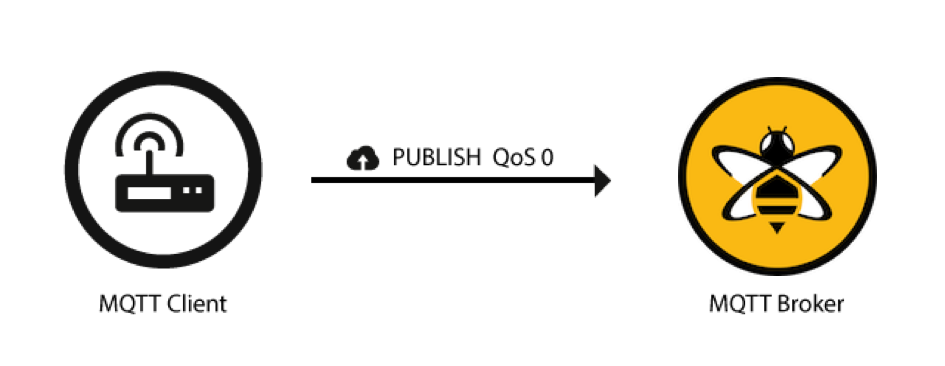
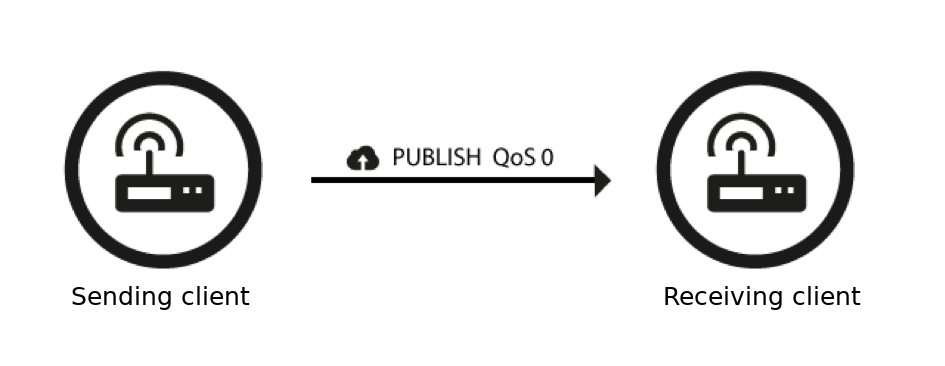
Improve qos pictures and reshuffle presentation slides

Changed region(s): [[0.6751, 0.1803, 0.9513, 0.7514], [0.7058, 0.7814, 0.9206, 0.8716], [0.0614, 0.7814, 0.2762, 0.8716]]

diff --git a/src/PRESENTATION.md b/src/PRESENTATION.md
@@ -27,9 +27,8 @@ date: Sep 21, 2018
 ## Request-Response: Disadvantages
 
 * Tight coupling between client and service
-* Extending existing endpoints with more functionality is hard
+* Extending the application is challenging
 * Distributing data to several hundred endpoints is challenging
-* Scalability is challenging
 
 ## Publish-Subscribe
 
@@ -69,11 +68,11 @@ A MQTT message consists of:
 ## MQTT: topics
 
 * Topics can be any string
-* Should be structured into a namespace with slashes
+* Can be structured into a namespace with slashes
 * Subscriptions allow pattern matching with:
     * `+` matching up to the next `/`
     * `#` matching any string that follows
-* `foo/+/baz` matches `foo/bar/baz` and `foo/boo/baz`
+* `foo/+/baz` to match `foo/bar/baz` and `foo/boo/baz`
 * `foo/#` matches also `foo/bar/baz/doh`
 * `#` matches any topic
 * But `foo/#/baz` is not allowed
@@ -100,10 +99,40 @@ Payload can be any array of bytes up to ~256Mb:
 * Video frame
 * ...
 
+## Hands on: hivemq demo client
+
+[http://www.hivemq.com/demos/websocket-client/](http://www.hivemq.com/demos/websocket-client/)
+
+## Hands on: git repository
+
+This presentation along with examples can be found here:
+
+[https://github.com/dpsenner/mqtt-presentation.git](https://github.com/dpsenner/mqtt-presentation.git)
+
+## Hands on: broker
+
+* Hostname: `mqtt.hta`
+* WebSocket port: `8000`
+* TCP port: `1883`
+
+## Hands on: chat
+
+* Chat application
+* Topic: `chat/channel/+/message`
+* Payload: `["author", "message"]`
+
+## MQTT message
+
+A MQTT message further consists of:
+
+* Quality of Service (QoS) level
+* Retain flag
+
 ## MQTT QoS
 
-Quality of service flag influences the message delivery:
+Influences the behavior of a client that sends a message and the client that receives a message:
 
+* A client here is the publisher, the broker or the subscriber
 * Messages from the publisher to the broker
 * Messages from the broker to the subscriber
 * Publishers and subcribers are allowed to use different QoS on the same topic
@@ -179,22 +208,6 @@ Quality of service flag influences the message delivery:
     * Retain flag
     * QoS
 
-## Hands on: hivemq demo client
-
-[http://www.hivemq.com/demos/websocket-client/](http://www.hivemq.com/demos/websocket-client/)
-
-## Hands on: git repository
-
-This presentation along with examples can be found here:
-
-[https://github.com/dpsenner/mqtt-presentation.git](https://github.com/dpsenner/mqtt-presentation.git)
-
-## Hands on: broker
-
-* Hostname: `mqtt.hta`
-* WebSocket port: `8000`
-* TCP port: `1883`
-
 ## Hands on: application state
 
 * Combining these two features is ideal to share the application state
@@ -227,29 +240,6 @@ A persistent session includes all information that the broker knows about a clie
 * A client must get all messages, even if it is offline
 * A client has very limited resources, like android app where the operating system restricts cpu usage to save battery
 
-# Questions?
-
-## Hands on: chat
-
-* Chat application
-* Topic: `chat/channel/+/message`
-* Payload: `["author", "message"]`
-
-## Hands on: sensor data
-
-* Topic: `{node}/property/{sensor}`
-* Payload: `34.8`
-* Publishing sensor data
-    * Stateless shell application
-    * Stateful python application
-* Subscription: `+/property/#`
-
-## Hands on: controlling nodes
-
-* Read topic: `{node}/property/scan-rate`
-* Write topic: `{node}/property/scan-rate/set`
-* Payload: seconds, for example `3.0`
-
 ## Hands on: transforming data to other topics
 
 * Subscribing to sensor data
@@ -271,8 +261,6 @@ A persistent session includes all information that the broker knows about a clie
     * Ownership of topics
     * Persistent storage of messages
 
-## Q&A
-
-Questions?
+## Questions?
 
 ## Thanks
